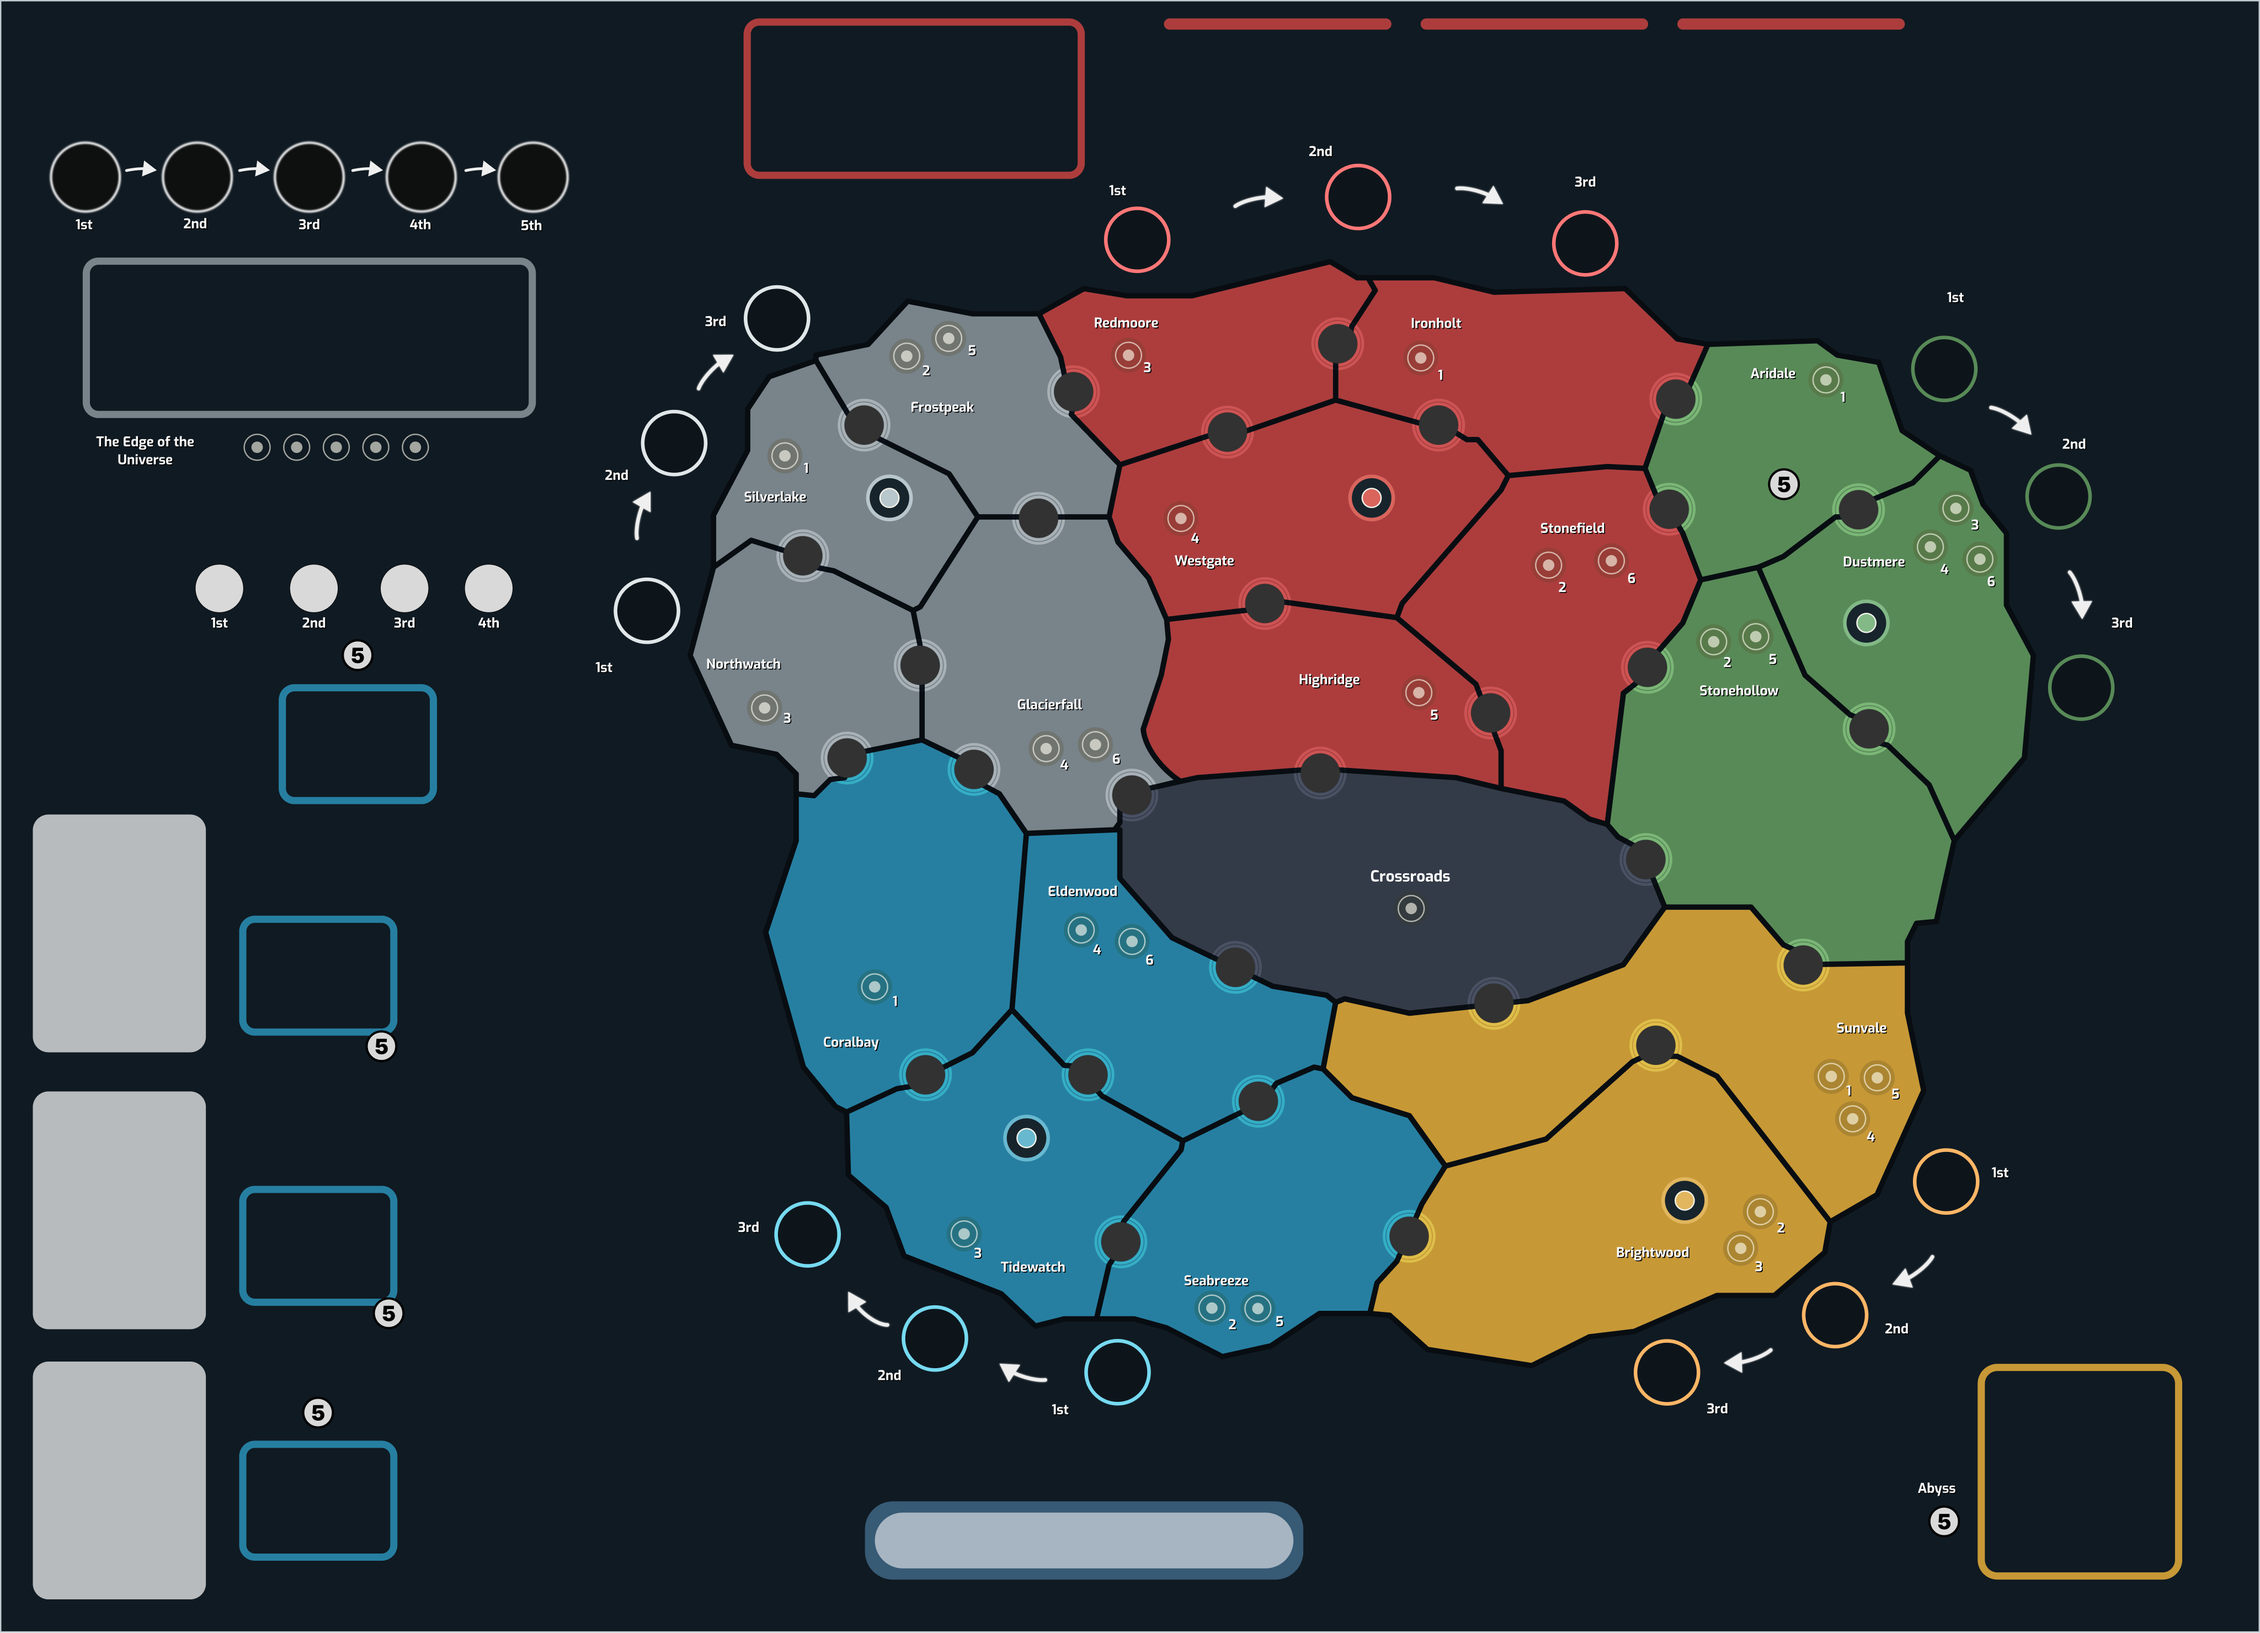
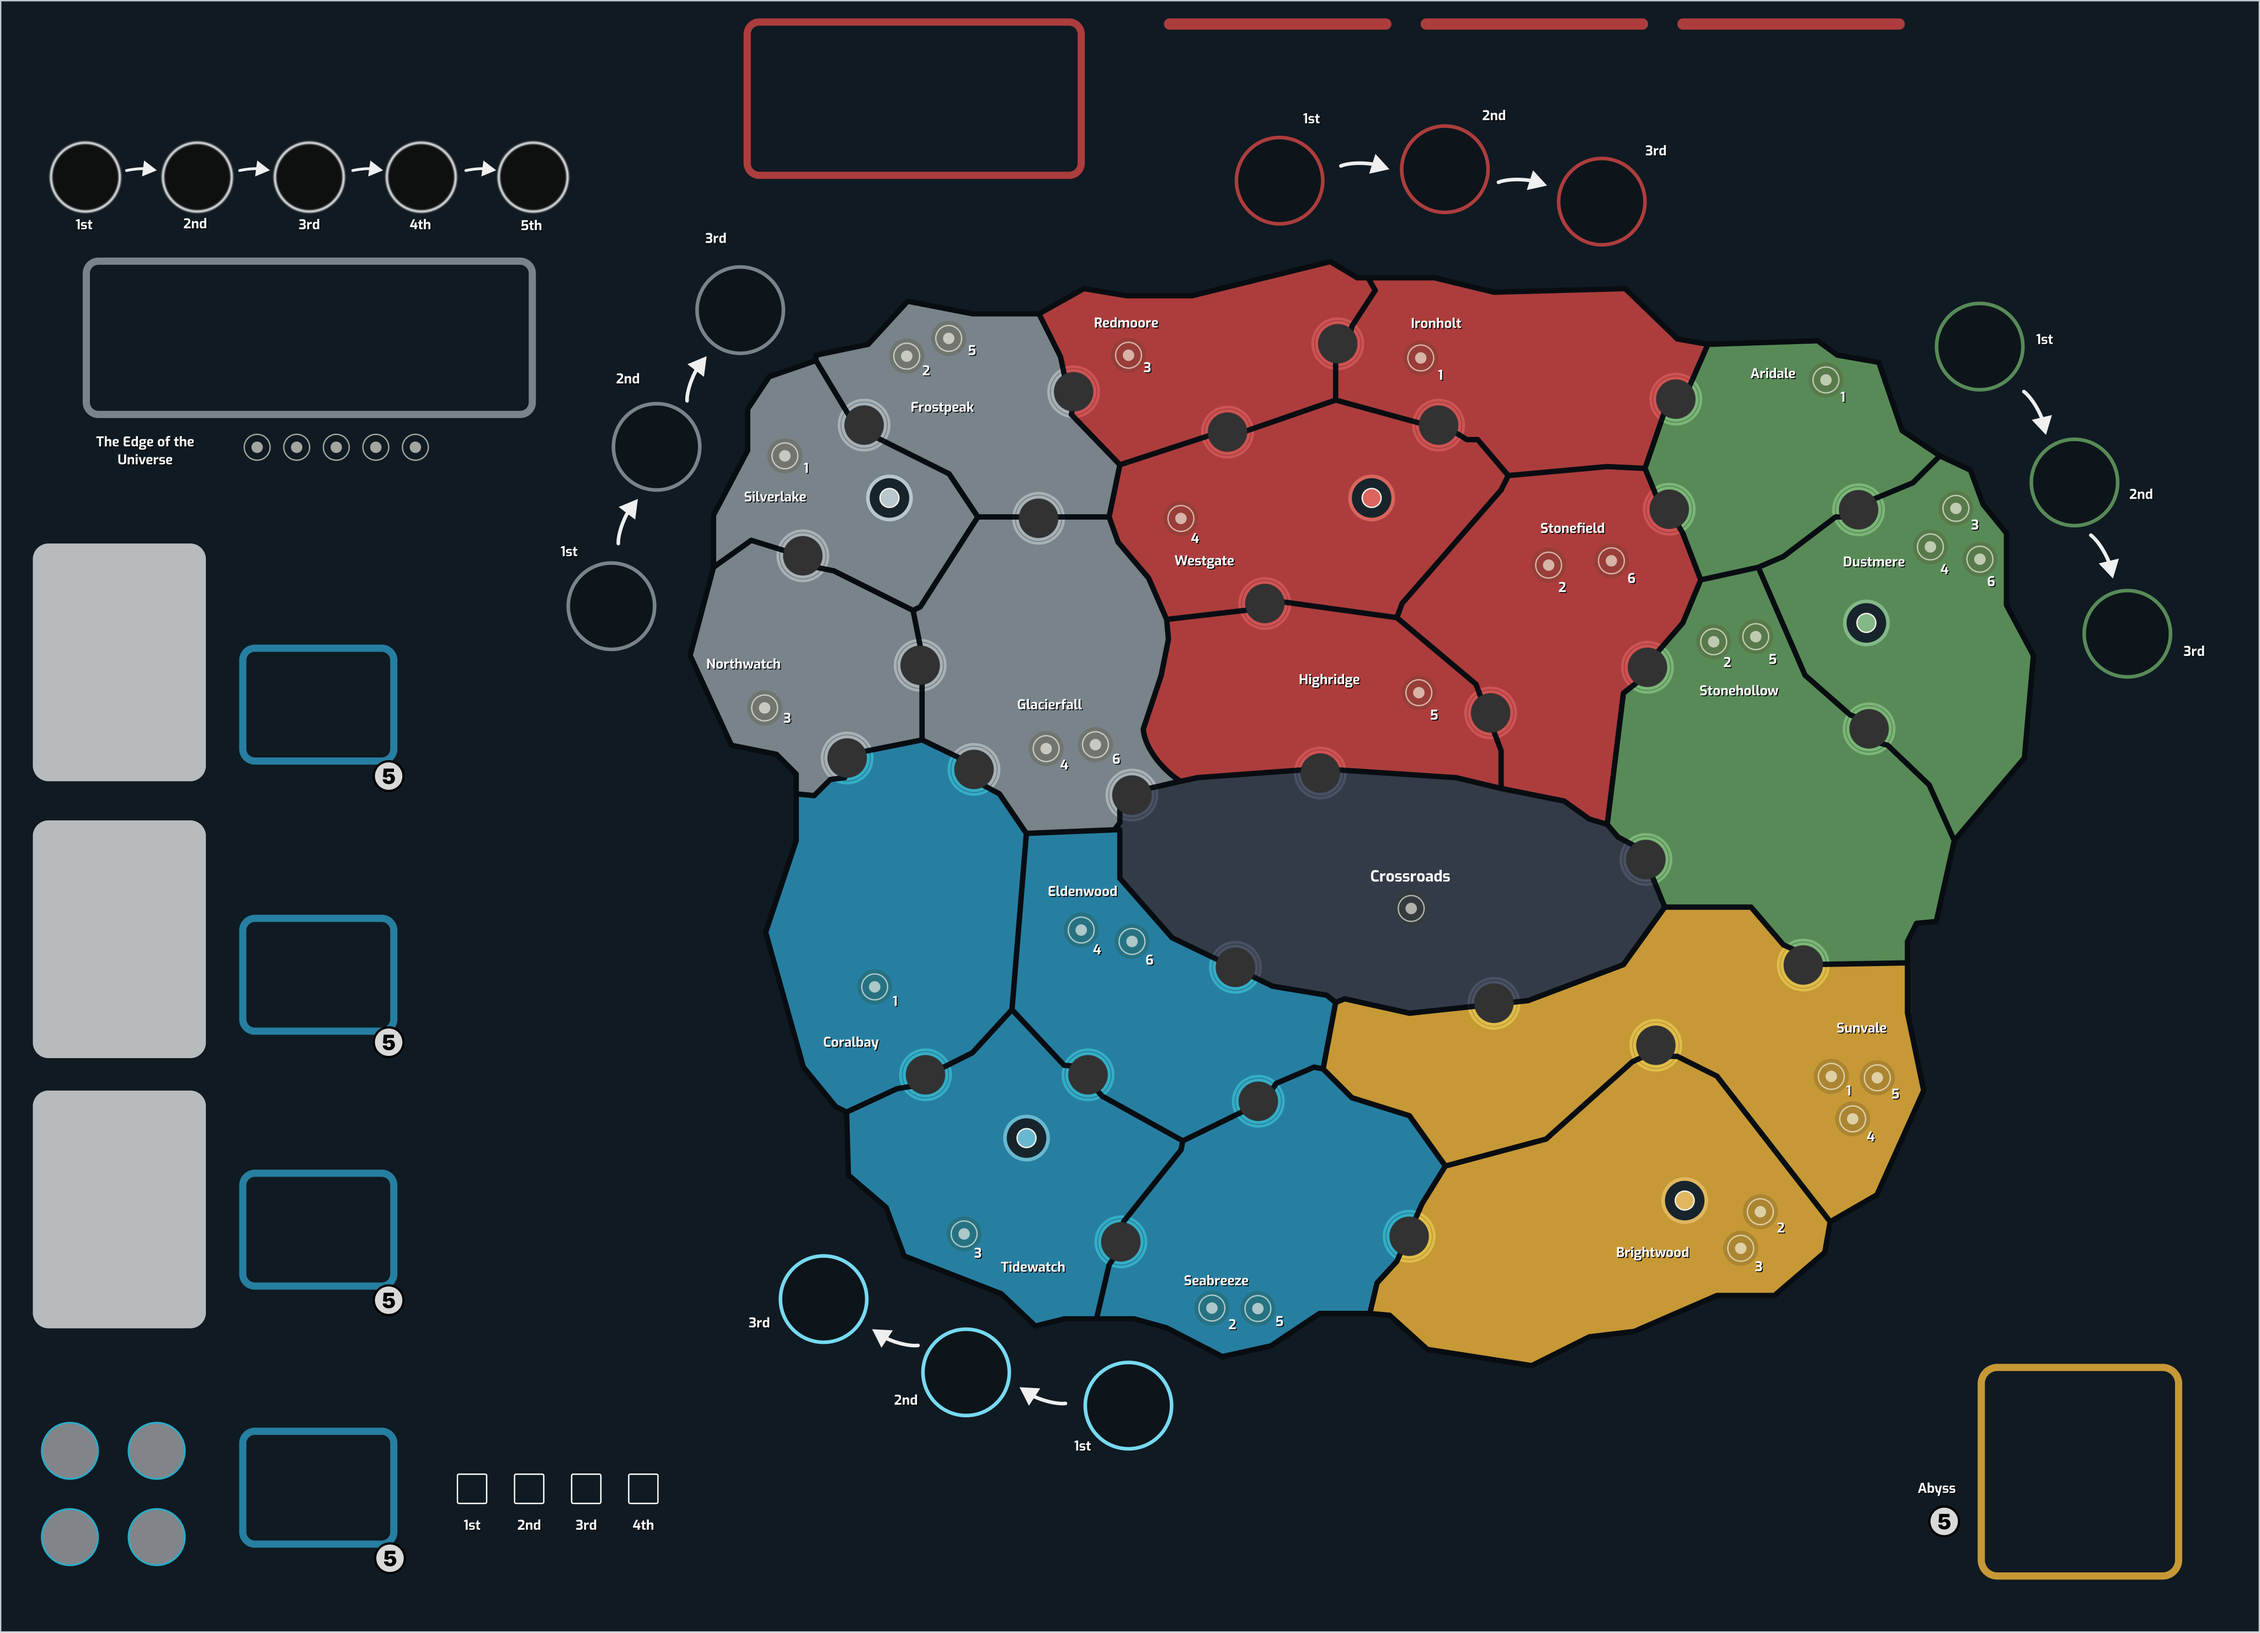
Update TTS main board artwork

diff --git a/docs/catalog.js b/docs/catalog.js
@@ -1,1 +1,1 @@
-window.FRONTIER_CATALOG = {"source": "Figma Page 4 Game Components slice 339:5632", "boards": [{"title": "Main board", "figmaId": "373:3722", "path": "assets/boards/board-main-e46ceed54f.png", "width": 4096, "height": 2960, "revision": "27afc99070"}], "cards": [{"title": "Action Guide", "figmaId": "339:4073", "path": "assets/cards/card-action-guide-6323e6fee4.png", "width": 506, "height": 729, "revision": "32b6b7b4d4"}, {"title": "Region Bonus Guide", "figmaId": "339:4123", "path": "assets/cards/card-region-bonus-guide-800eb32bd9.png", "width": 759, "height": 1098, "revision": "98b4c263bc"}], "references": [], "decks": [{"title": "Monuments", "figmaId": "339:4797", "count": 24, "columns": 6, "rows": 4, "cardWidth": 442, "cardHeight": 640, "face": {"path": "assets/decks/monuments-faces-d44fdccb0e.png", "width": 2652, "height": 2560, "revision": "7a3c5f7edc"}, "back": {"path": "assets/decks/monuments-back-a65fba90e2.png", "width": 442, "height": 640, "revision": "dab77c147b"}}, {"title": "Objectives", "figmaId": "339:4151", "count": 18, "columns": 6, "rows": 3, "cardWidth": 388, "cardHeight": 519, "face": {"path": "assets/decks/objectives-faces-4d91a50427.png", "width": 2328, "height": 1557, "revision": "a37ecd085f"}, "back": {"path": "assets/decks/objectives-back-c08c78cc67.png", "width": 388, "height": 519, "revision": "cc7db17312"}}, {"title": "Specials", "figmaId": "339:5468", "count": 24, "columns": 4, "rows": 6, "cardWidth": 442, "cardHeight": 640, "face": {"path": "assets/decks/specials-faces-adc1172863.png", "width": 1768, "height": 3840, "revision": "fd4011cdc6"}, "back": {"path": "assets/decks/specials-back-0b946676e3.png", "width": 442, "height": 640, "revision": "716e286590"}}], "tokens": [{"title": "Build 4", "figmaId": "353:1940", "path": "assets/tokens/action-tile-1-fb100c9aa5.png", "width": 426, "height": 426, "revision": "989ae47648"}, {"title": "Region bonus", "figmaId": "339:4070", "path": "assets/tokens/action-tile-2-7107aa55c8.png", "width": 426, "height": 426, "revision": "649b646ee8"}, {"title": "Build 3", "figmaId": "353:2029", "path": "assets/tokens/action-tile-3.png", "width": 427, "height": 427, "revision": "a012cf7af2"}, {"title": "Build 4, four regions", "figmaId": "353:1918", "path": "assets/tokens/action-tile-4-21af0fce2d.png", "width": 427, "height": 427, "revision": "55e88bb6be"}, {"title": "+1", "figmaId": "339:4061", "path": "assets/tokens/action-tile-5-39a0ec00fc.png", "width": 426, "height": 426, "revision": "35563c5885"}, {"title": "+2", "figmaId": "339:4064", "path": "assets/tokens/action-tile-6-813e8438d5.png", "width": 426, "height": 426, "revision": "d2a8f29a2f"}, {"title": "Build 2, four regions", "figmaId": "353:1851", "path": "assets/tokens/action-tile-7-7d3d7a7703.png", "width": 427, "height": 427, "revision": "f677694064"}, {"title": "+3", "figmaId": "339:4067", "path": "assets/tokens/action-tile-8.png", "width": 426, "height": 426, "revision": "e5071bf25c"}, {"title": "Move", "figmaId": "353:2007", "path": "assets/tokens/action-tile-9.png", "width": 427, "height": 427, "revision": "832b4116c5"}, {"title": "Build 6", "figmaId": "353:1984", "path": "assets/tokens/action-tile-10.png", "width": 426, "height": 426, "revision": "7241052671"}]};
+window.FRONTIER_CATALOG = {"source": "Figma Page 4 Game Components slice 339:5632", "boards": [{"title": "Main board", "figmaId": "373:3722", "path": "assets/boards/board-main-e46ceed54f.png", "width": 4096, "height": 2960, "revision": "d10aa2aadc"}], "cards": [{"title": "Action Guide", "figmaId": "339:4073", "path": "assets/cards/card-action-guide-6323e6fee4.png", "width": 506, "height": 729, "revision": "32b6b7b4d4"}, {"title": "Region Bonus Guide", "figmaId": "339:4123", "path": "assets/cards/card-region-bonus-guide-800eb32bd9.png", "width": 759, "height": 1098, "revision": "98b4c263bc"}], "references": [], "decks": [{"title": "Monuments", "figmaId": "339:4797", "count": 24, "columns": 6, "rows": 4, "cardWidth": 442, "cardHeight": 640, "face": {"path": "assets/decks/monuments-faces-d44fdccb0e.png", "width": 2652, "height": 2560, "revision": "7a3c5f7edc"}, "back": {"path": "assets/decks/monuments-back-a65fba90e2.png", "width": 442, "height": 640, "revision": "dab77c147b"}}, {"title": "Objectives", "figmaId": "339:4151", "count": 18, "columns": 6, "rows": 3, "cardWidth": 388, "cardHeight": 519, "face": {"path": "assets/decks/objectives-faces-4d91a50427.png", "width": 2328, "height": 1557, "revision": "a37ecd085f"}, "back": {"path": "assets/decks/objectives-back-c08c78cc67.png", "width": 388, "height": 519, "revision": "cc7db17312"}}, {"title": "Specials", "figmaId": "339:5468", "count": 24, "columns": 4, "rows": 6, "cardWidth": 442, "cardHeight": 640, "face": {"path": "assets/decks/specials-faces-adc1172863.png", "width": 1768, "height": 3840, "revision": "fd4011cdc6"}, "back": {"path": "assets/decks/specials-back-0b946676e3.png", "width": 442, "height": 640, "revision": "716e286590"}}], "tokens": [{"title": "Build 4", "figmaId": "353:1940", "path": "assets/tokens/action-tile-1-fb100c9aa5.png", "width": 426, "height": 426, "revision": "989ae47648"}, {"title": "Region bonus", "figmaId": "339:4070", "path": "assets/tokens/action-tile-2-7107aa55c8.png", "width": 426, "height": 426, "revision": "649b646ee8"}, {"title": "Build 3", "figmaId": "353:2029", "path": "assets/tokens/action-tile-3.png", "width": 427, "height": 427, "revision": "a012cf7af2"}, {"title": "Build 4, four regions", "figmaId": "353:1918", "path": "assets/tokens/action-tile-4-21af0fce2d.png", "width": 427, "height": 427, "revision": "55e88bb6be"}, {"title": "+1", "figmaId": "339:4061", "path": "assets/tokens/action-tile-5-39a0ec00fc.png", "width": 426, "height": 426, "revision": "35563c5885"}, {"title": "+2", "figmaId": "339:4064", "path": "assets/tokens/action-tile-6-813e8438d5.png", "width": 426, "height": 426, "revision": "d2a8f29a2f"}, {"title": "Build 2, four regions", "figmaId": "353:1851", "path": "assets/tokens/action-tile-7-7d3d7a7703.png", "width": 427, "height": 427, "revision": "f677694064"}, {"title": "+3", "figmaId": "339:4067", "path": "assets/tokens/action-tile-8.png", "width": 426, "height": 426, "revision": "e5071bf25c"}, {"title": "Move", "figmaId": "353:2007", "path": "assets/tokens/action-tile-9.png", "width": 427, "height": 427, "revision": "832b4116c5"}, {"title": "Build 6", "figmaId": "353:1984", "path": "assets/tokens/action-tile-10.png", "width": 426, "height": 426, "revision": "7241052671"}]};

diff --git a/docs/index.html b/docs/index.html
@@ -6,7 +6,7 @@
   <meta name="theme-color" content="#12171c">
   <title>Frontier · Tabletop Simulator assets</title>
   <link rel="stylesheet" href="styles.css?v=3">
-  <script defer src="catalog.js?v=1dd8679041"></script>
+  <script defer src="catalog.js?v=80688e9b58"></script>
   <script defer src="app.js?v=7"></script>
 </head>
 <body>
